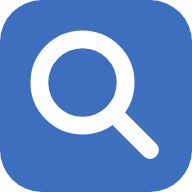
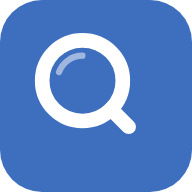
Refine magnifying-glass mark with a subtle shine highlight
Previous glass was a plain circle + straight stroke, functional but flat.
Added a short inset arc (lower opacity, thinner stroke) in the upper-left
of the lens to suggest a glass reflection, giving the mark real depth at
large sizes while still reading cleanly at 48px — checked at both extremes
before finalizing. Applied consistently to the standalone app-icon mark and
the "a" substitution inside the wordmark.

Regenerated the full asset set (icon.png, Android adaptive layers, favicon,
splash, standalone exports, brand SVGs) and the admin dashboard's logo copy.

Changed region(s): [[0.1562, 0.1562, 0.8438, 0.8438], [0.25, 0.25, 0.625, 0.625], [0.5625, 0.3125, 0.5938, 0.375]]

diff --git a/components/Logo.tsx b/components/Logo.tsx
@@ -1,5 +1,5 @@
 import { View } from 'react-native';
-import Svg, { Circle, Line, Rect, Text as SvgText } from 'react-native-svg';
+import Svg, { Circle, Line, Path, Rect, Text as SvgText } from 'react-native-svg';
 
 // Official Easyfen brand colors — keep in sync with assets/brand/*.svg if the
 // logo ever changes.
@@ -7,14 +7,52 @@ const BLUE = '#3E6FBF';
 const GOLD = '#B8912E';
 const GLASS_DARK = '#1A1A1A';
 
-// The magnifying-glass mark, standing in for the "a" in "easyfen" in the
-// wordmark, and used alone (on a rounded square) as the app-icon-style mark.
-// Coordinates mirror assets/brand's render script — keep both in sync.
-function GlassStroke({ stroke, strokeWidth }: { stroke: string; strokeWidth: number }) {
+// The magnifying-glass mark: lens + a short 45deg handle + a subtle inset
+// shine arc for dimensionality. Stands in for the "a" in "easyfen" in the
+// wordmark, and alone (on a rounded square) as the app-icon-style mark.
+// Geometry mirrors assets/brand's render script — keep both in sync.
+function GlassMark({
+  stroke,
+  cx,
+  cy,
+  r,
+  strokeWidth,
+  shineOpacity = 0.5,
+}: {
+  stroke: string;
+  cx: number;
+  cy: number;
+  r: number;
+  strokeWidth: number;
+  shineOpacity?: number;
+}) {
+  const angle = Math.PI / 4;
+  const hx1 = cx + r * Math.cos(angle);
+  const hy1 = cy + r * Math.sin(angle);
+  const handleLen = r * 0.62;
+  const hx2 = hx1 + handleLen * Math.cos(angle);
+  const hy2 = hy1 + handleLen * Math.sin(angle);
+
+  const shineR = r * 0.62;
+  const a1 = (200 * Math.PI) / 180;
+  const a2 = (270 * Math.PI) / 180;
+  const sx1 = cx + shineR * Math.cos(a1);
+  const sy1 = cy + shineR * Math.sin(a1);
+  const sx2 = cx + shineR * Math.cos(a2);
+  const sy2 = cy + shineR * Math.sin(a2);
+
   return (
     <>
-      <Circle cx={205} cy={145} r={68} fill="none" stroke={stroke} strokeWidth={strokeWidth} />
-      <Line x1={253} y1={193} x2={308} y2={248} stroke={stroke} strokeWidth={strokeWidth} strokeLinecap="round" />
+      <Circle cx={cx} cy={cy} r={r} fill="none" stroke={stroke} strokeWidth={strokeWidth} />
+      <Path
+        d={`M ${sx1} ${sy1} A ${shineR} ${shineR} 0 0 1 ${sx2} ${sy2}`}
+        fill="none"
+        stroke={stroke}
+        strokeWidth={strokeWidth * 0.42}
+        strokeLinecap="round"
+        opacity={shineOpacity}
+      />
+      <Line x1={hx1} y1={hy1} x2={hx2} y2={hy2} stroke={stroke} strokeWidth={strokeWidth} strokeLinecap="round" />
     </>
   );
 }
@@ -31,13 +69,11 @@ export function Logo({ size = 120, variant = 'color', showWordmark = true }: Log
   const isWhite = variant === 'white';
 
   if (!showWordmark) {
-    const bg = isWhite ? 'transparent' : BLUE;
     return (
       <View style={{ width: size, height: size }}>
         <Svg width={size} height={size} viewBox="0 0 1024 1024">
-          {!isWhite && <Rect width={1024} height={1024} rx={224} fill={bg} />}
-          <Circle cx={440} cy={440} r={230} fill="none" stroke="#FFFFFF" strokeWidth={95} />
-          <Line x1={608} y1={608} x2={800} y2={800} stroke="#FFFFFF" strokeWidth={95} strokeLinecap="round" />
+          {!isWhite && <Rect width={1024} height={1024} rx={224} fill={BLUE} />}
+          <GlassMark stroke="#FFFFFF" cx={440} cy={430} r={215} strokeWidth={78} />
         </Svg>
       </View>
     );
@@ -54,7 +90,7 @@ export function Logo({ size = 120, variant = 'color', showWordmark = true }: Log
         <SvgText x={0} y={215} fontSize={200} fontWeight="700" fill={blueCol}>
           e
         </SvgText>
-        <GlassStroke stroke={glassCol} strokeWidth={30} />
+        <GlassMark stroke={glassCol} cx={205} cy={145} r={68} strokeWidth={30} shineOpacity={0.55} />
         <SvgText x={335} y={215} fontSize={200} fontWeight="700" fill={blueCol}>
           sy
         </SvgText>
